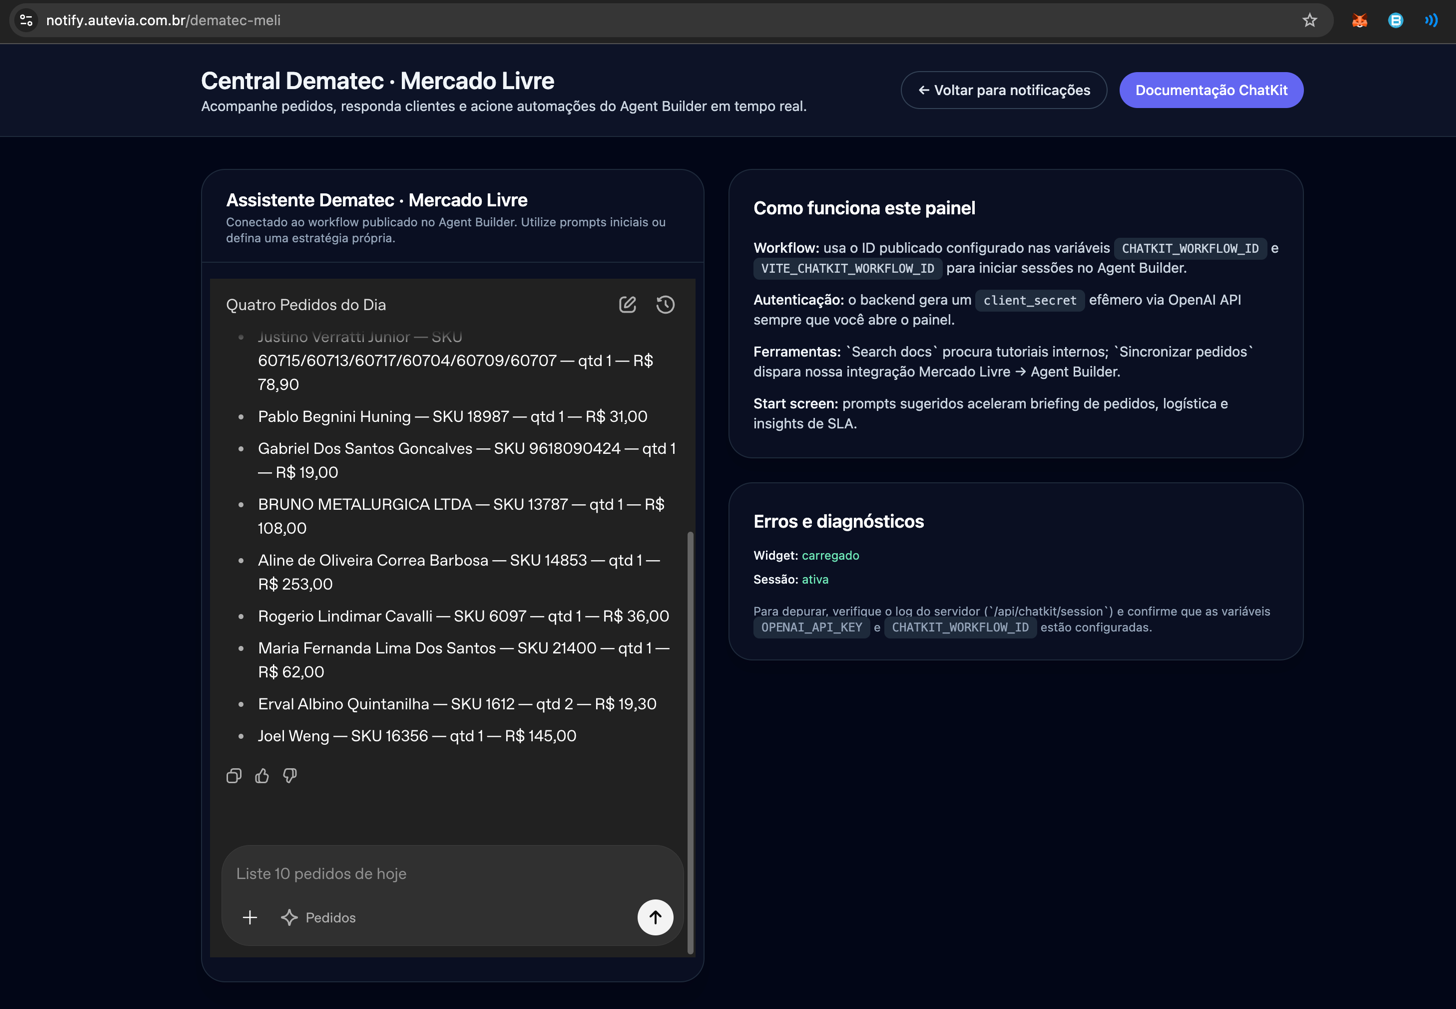
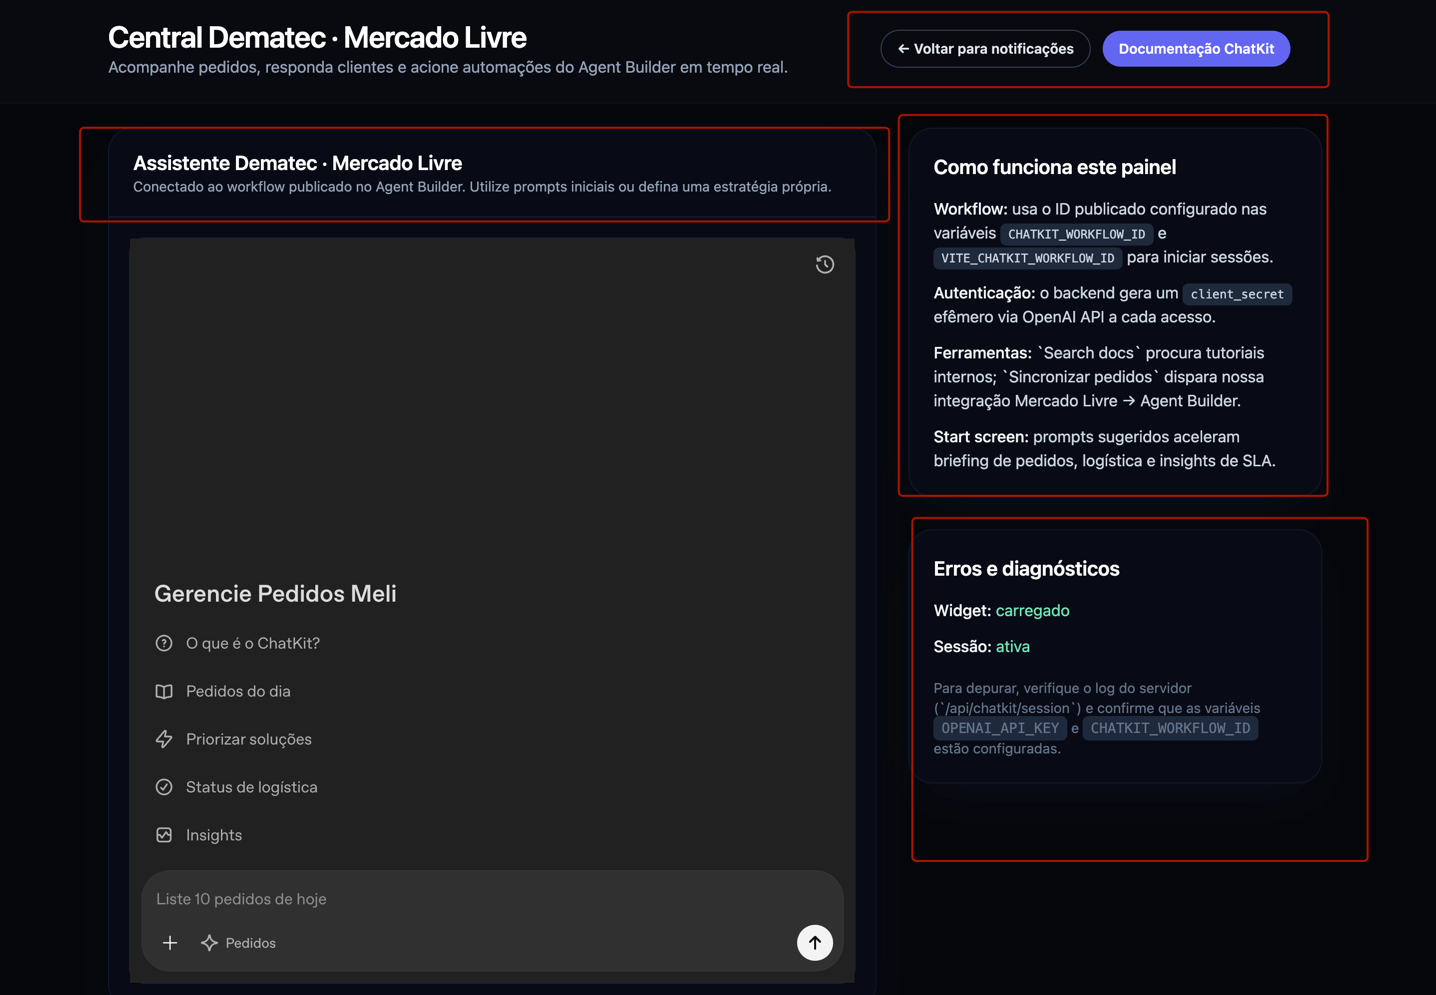
melhoria layout

Changed region(s): [[0.0, 0.0, 1.0, 0.997], [0.6435, 0.6854, 0.8886, 0.7789], [0.8886, 0.4985, 0.9499, 0.5296]]

diff --git a/pages/DematecMeliPage.tsx b/pages/DematecMeliPage.tsx
@@ -246,109 +246,46 @@ const DematecMeliPage: React.FC = () => {
   const chatkit = useChatKit(chatKitOptions);
 
   return (
-    <div className="flex min-h-screen flex-col bg-[#05060a] text-slate-100">
-      <header className="border-b border-slate-900/60 bg-[#070a12]/80 backdrop-blur">
-        <div className="mx-auto flex w-full max-w-7xl flex-col gap-4 px-5 py-6 md:flex-row md:items-center md:justify-between lg:px-12">
-          <div>
-            <h1 className="text-2xl font-semibold tracking-tight text-white md:text-3xl">Central Dematec · Mercado Livre</h1>
-            <p className="text-sm text-slate-400 md:text-base">
-              Acompanhe pedidos, responda clientes e acione automações do Agent Builder em tempo real.
-            </p>
-          </div>
-          <div className="flex flex-wrap items-center gap-3">
-            <Link
-              to="/"
-              className="inline-flex items-center gap-2 rounded-full border border-slate-700 px-4 py-2 text-sm font-semibold text-slate-200 transition hover:border-indigo-400 hover:text-white"
-            >
-              ← Voltar para notificações
-            </Link>
-            <a
-              href="https://platform.openai.com/docs/guides/chatkit"
-              target="_blank"
-              rel="noreferrer"
-              className="inline-flex items-center gap-2 rounded-full bg-indigo-500 px-4 py-2 text-sm font-semibold text-white transition hover:bg-indigo-600"
-            >
-              Documentação ChatKit
-            </a>
-          </div>
+    <div className="flex min-h-screen flex-col items-center bg-[#05060a] text-slate-100">
+      <header className="w-full border-b border-slate-900/60 bg-[#070a12]/80 backdrop-blur">
+        <div className="mx-auto flex w-full max-w-5xl flex-col items-start gap-2 px-5 py-6 sm:items-center sm:text-center md:px-8">
+          <h1 className="text-2xl font-semibold tracking-tight text-white sm:text-3xl">Central Dematec · Mercado Livre</h1>
+          <p className="text-sm text-slate-400 sm:text-base">
+            Interface dedicada para consultar e orquestrar pedidos Mercado Livre via Agent Builder.
+          </p>
         </div>
       </header>
 
-      <main className="flex-1">
-        <div className="mx-auto flex w-full max-w-7xl flex-col gap-6 px-5 py-6 lg:flex-row lg:items-start lg:px-12 xl:gap-8">
-          <section className="w-full lg:flex-[0_0_60%] xl:flex-[0_0_65%]">
-            <div className="overflow-hidden rounded-3xl border border-slate-900 bg-[#090d17]/80 shadow-[0_25px_50px_-12px_rgba(15,23,42,0.45)] backdrop-blur">
-              <div className="border-b border-slate-800/80 px-6 py-5">
-                <h2 className="text-lg font-semibold text-white md:text-xl">Assistente Dematec · Mercado Livre</h2>
-                <p className="text-xs text-slate-400 md:text-sm">
-                  Conectado ao workflow publicado no Agent Builder. Utilize prompts iniciais ou defina uma estratégia própria.
+      <main className="flex w-full flex-1 justify-center px-4 py-8 sm:px-6 md:px-8">
+        <div className="flex w-full max-w-5xl flex-col gap-6">
+          <Link
+            to="/"
+            className="self-start text-sm font-medium text-slate-400 transition hover:text-slate-200 sm:self-center"
+          >
+            ← Voltar para notificações
+          </Link>
+
+          <section className="relative overflow-hidden rounded-3xl border border-slate-900 bg-[#090d17]/80 shadow-[0_25px_50px_-12px_rgba(15,23,42,0.5)] backdrop-blur">
+            {!isWidgetReady && (
+              <div className="absolute inset-5 rounded-2xl border border-dashed border-slate-700/80 bg-slate-900/40 p-6 text-sm text-slate-300">
+                <p className="font-medium text-slate-200">Carregando ChatKit…</p>
+                <p className="mt-2 text-slate-400">
+                  Estamos baixando o widget do CDN da OpenAI. Verifique sua conexão caso esta mensagem persista.
                 </p>
-              </div>
-              <div className="relative px-3 pb-6 pt-5 sm:px-4 lg:px-5">
-                {!isWidgetReady && (
-                  <div className="absolute inset-4 rounded-2xl border border-dashed border-slate-700/80 bg-slate-900/40 p-6 text-sm text-slate-300">
-                    <p className="font-medium text-slate-200">Carregando ChatKit…</p>
-                    <p className="mt-2 text-slate-400">
-                      Estamos baixando o widget do CDN da OpenAI. Verifique sua conexão caso esta mensagem persista.
-                    </p>
-                    {scriptError && (
-                      <p className="mt-4 rounded-md bg-red-500/10 px-3 py-2 text-xs text-red-300">{scriptError}</p>
-                    )}
-                  </div>
-                )}
-                {isWidgetReady && (
-                  <div className="mx-auto h-[70vh] w-full max-w-[1040px] rounded-2xl border border-slate-800/80 bg-[#0b101d] shadow-inner shadow-black/40 sm:h-[68vh] md:h-[72vh] lg:h-[75vh]">
-                    <ChatKit control={chatkit.control} className="block h-full w-full rounded-2xl" />
-                  </div>
+                {scriptError && (
+                  <p className="mt-4 rounded-md bg-red-500/10 px-3 py-2 text-xs text-red-300">{scriptError}</p>
                 )}
               </div>
+            )}
+
+            <div className="mx-auto h-[70vh] w-full max-w-[900px] px-3 pb-6 pt-6 sm:h-[72vh] sm:px-6 md:h-[75vh] lg:h-[78vh]">
+              {isWidgetReady && (
+                <div className="h-full w-full rounded-2xl border border-slate-800/80 bg-[#0b101d] shadow-inner shadow-black/40">
+                  <ChatKit control={chatkit.control} className="block h-full w-full rounded-2xl" />
+                </div>
+              )}
             </div>
           </section>
-
-          <aside className="w-full lg:flex-[0_0_40%] xl:flex-[0_0_35%]">
-            <div className="grid gap-6 xl:gap-8">
-              <div className="rounded-3xl border border-slate-900 bg-[#090d17]/80 p-6 shadow-[0_20px_45px_-20px_rgba(15,23,42,0.7)] backdrop-blur">
-                <h3 className="text-lg font-semibold text-white md:text-xl">Como funciona este painel</h3>
-                <ul className="mt-4 space-y-3 text-sm text-slate-300 md:text-base">
-                  <li>
-                    <span className="font-medium text-slate-100">Workflow:</span> usa o ID publicado configurado nas variáveis{' '}
-                    <code className="rounded-md bg-slate-800 px-2 py-1 text-xs font-mono">CHATKIT_WORKFLOW_ID</code> e{' '}
-                    <code className="rounded-md bg-slate-800 px-2 py-1 text-xs font-mono">VITE_CHATKIT_WORKFLOW_ID</code> para iniciar sessões.
-                  </li>
-                  <li>
-                    <span className="font-medium text-slate-100">Autenticação:</span> o backend gera um{' '}
-                    <code className="rounded-md bg-slate-800 px-2 py-1 text-xs font-mono">client_secret</code> efêmero via OpenAI API a cada acesso.
-                  </li>
-                  <li>
-                    <span className="font-medium text-slate-100">Ferramentas:</span> `Search docs` procura tutoriais internos; `Sincronizar pedidos`
-                    dispara nossa integração Mercado Livre → Agent Builder.
-                  </li>
-                  <li>
-                    <span className="font-medium text-slate-100">Start screen:</span> prompts sugeridos aceleram briefing de pedidos, logística e insights de SLA.
-                  </li>
-                </ul>
-              </div>
-
-              <div className="rounded-3xl border border-slate-900 bg-[#090d17]/80 p-6 shadow-[0_20px_45px_-20px_rgba(15,23,42,0.7)] backdrop-blur">
-                <h3 className="text-lg font-semibold text-white md:text-xl">Erros e diagnósticos</h3>
-                <div className="mt-4 space-y-3 text-sm text-slate-300 md:text-base">
-                  <div>
-                    <span className="font-medium text-slate-100">Widget:</span>{' '}
-                    {scriptError ? <span className="text-red-300">{scriptError}</span> : <span className="text-emerald-300">carregado</span>}
-                  </div>
-                  <div>
-                    <span className="font-medium text-slate-100">Sessão:</span>{' '}
-                    {sessionError ? <span className="text-red-300">{sessionError}</span> : <span className="text-emerald-300">ativa</span>}
-                  </div>
-                </div>
-                <p className="mt-5 text-xs text-slate-500 md:text-sm">
-                  Para depurar, verifique o log do servidor (`/api/chatkit/session`) e confirme que as variáveis{' '}
-                  <code className="rounded-md bg-slate-800 px-2 py-1">OPENAI_API_KEY</code> e{' '}
-                  <code className="rounded-md bg-slate-800 px-2 py-1">CHATKIT_WORKFLOW_ID</code> estão configuradas.
-                </p>
-              </div>
-            </div>
-          </aside>
         </div>
       </main>
     </div>
